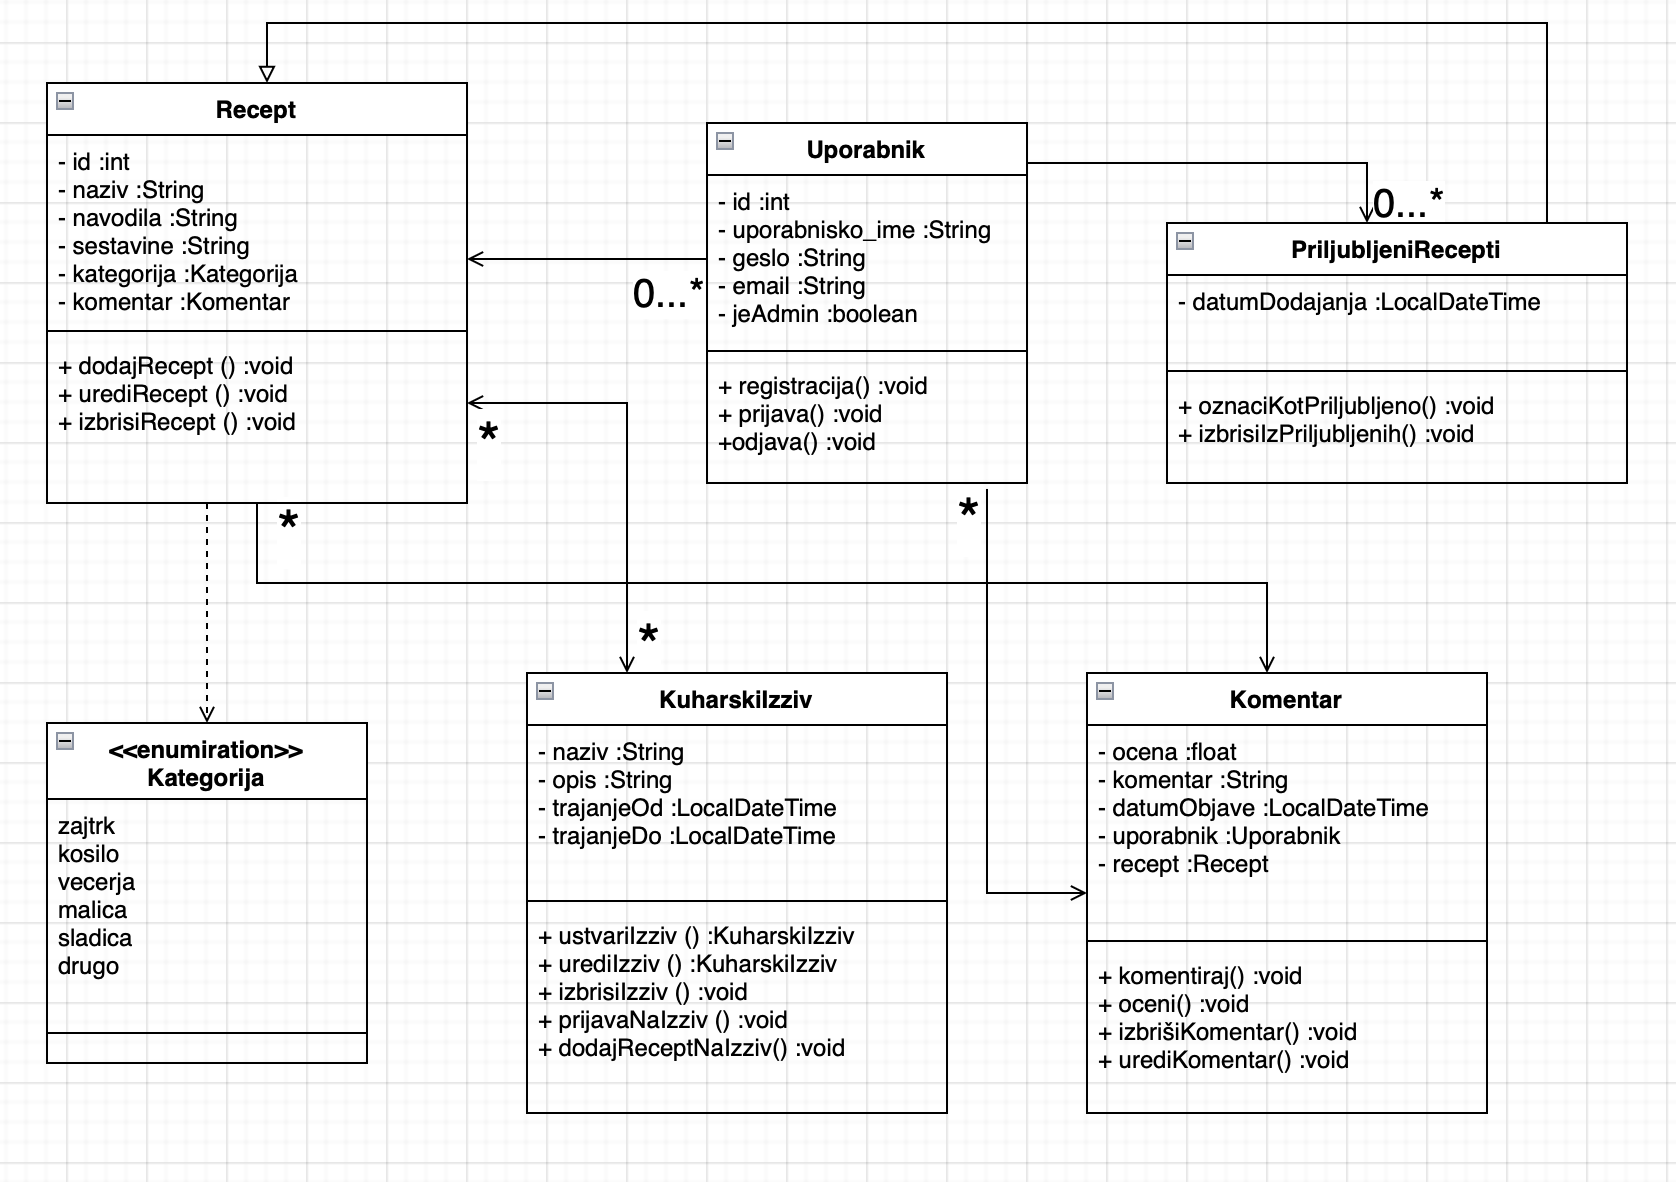
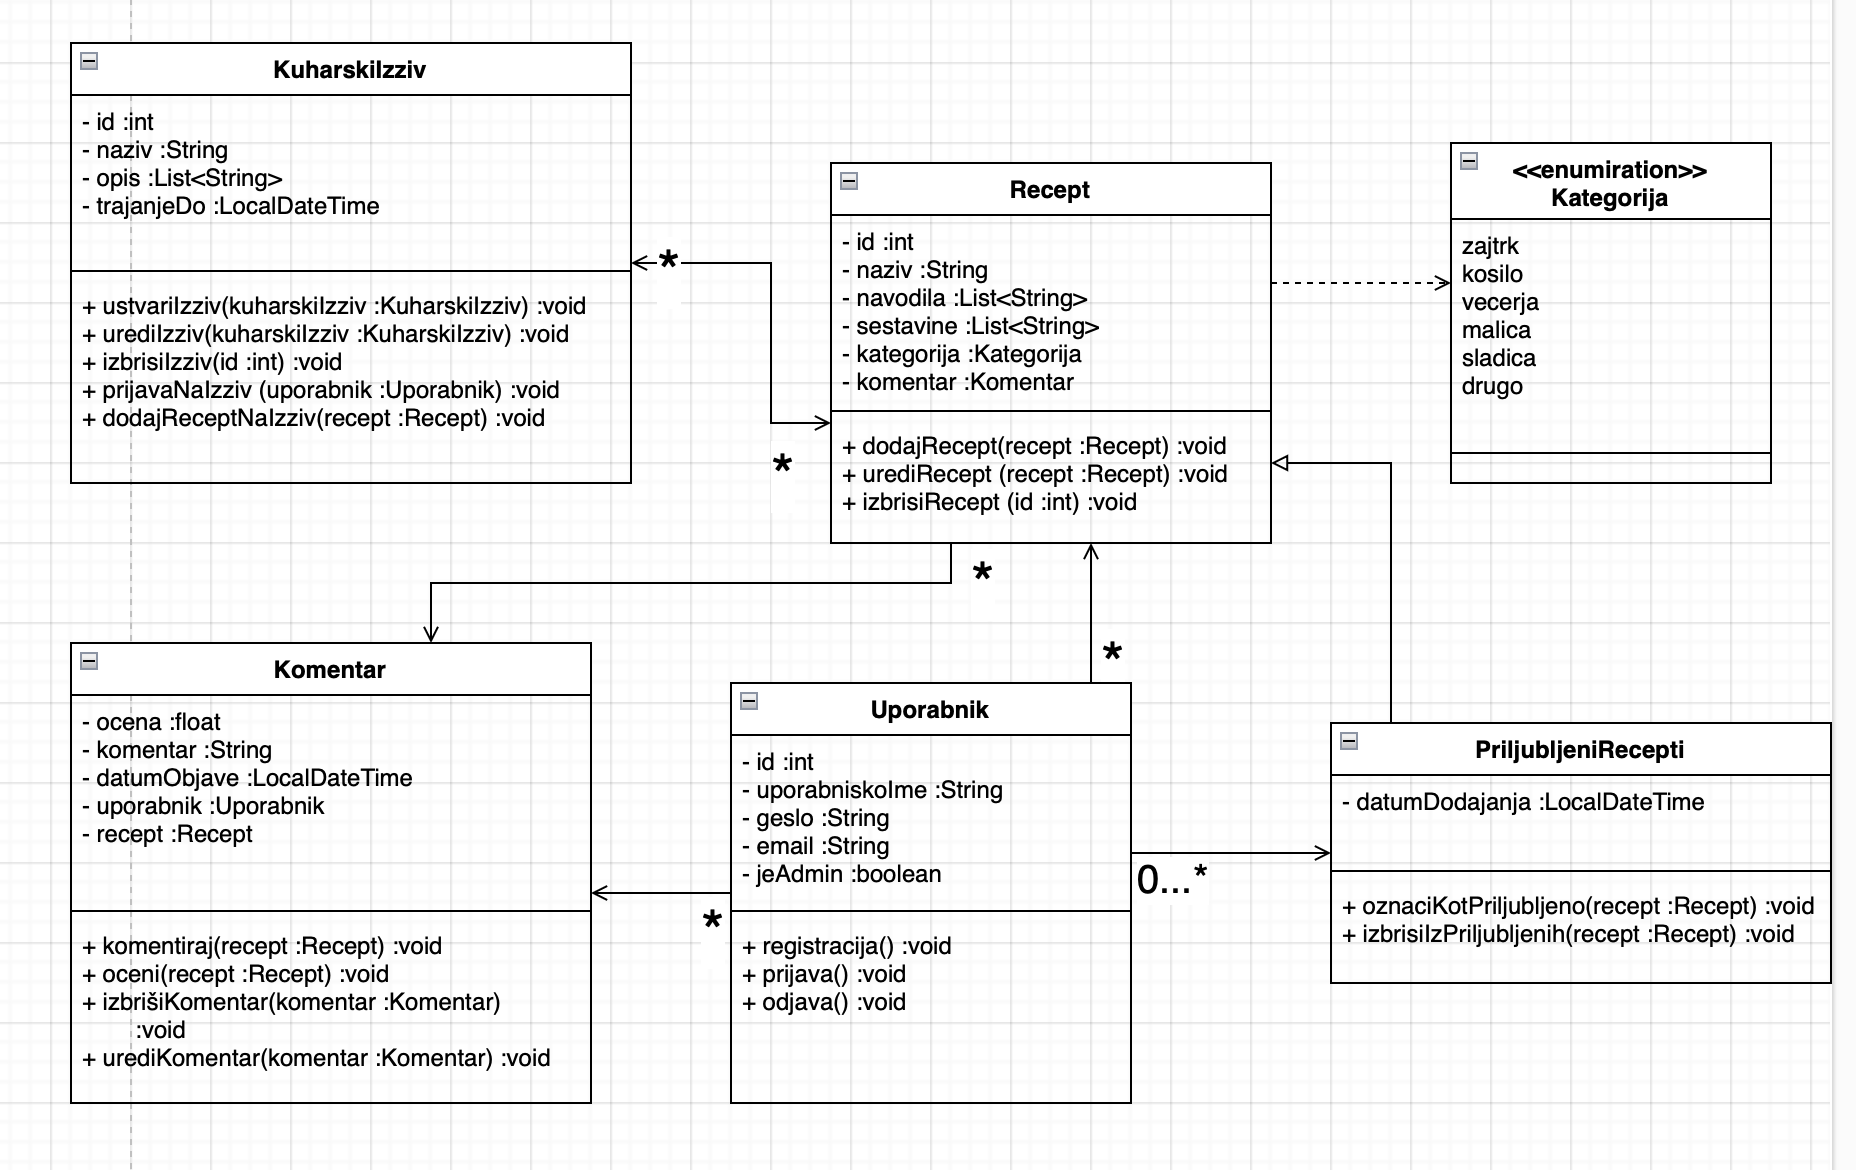
List<String> in atributi v metodah v razrednem diagramu

diff --git a/README.md b/README.md
@@ -426,17 +426,18 @@ This project is licensed under the terms of the MIT license.
 Vloga in namen:
 Osrednji razred, ki predstavlja posamezen recept v aplikaciji. Vsebuje informacije, kot so naziv recepta, sestavine, navodila, kategorija in povezani komentarji.
 Ključne metode:
-dodajRecept(): void – Dodaja nov recept v sistem.
-urediRecept(): void – Omogoča urejanje obstoječega recepta.
-izbrisiRecept(): void – Briše recept iz sistema.
+dodajRecept(recept :Recept): void – Dodaja nov recept v sistem.
+urediRecept(recept :Recept): void – Omogoča urejanje obstoječega recepta.
+izbrisiRecept(id :int): void – Briše recept iz sistema.
 
 2. PriljubljeniRecepti (deduje od Recept)
 
 Vloga in namen:
 Predstavlja razrede receptov, ki jih je uporabnik označil kot priljubljene. Podeduje osnovne atribute in metode iz razreda Recept ter doda lastnosti in funkcionalnosti za upravljanje priljubljenih receptov.
 Ključne metode:
-oznaciKotPriljubljeno(): void – Označi recept kot priljubljenega za določenega uporabnika.
-izbrisiIzPriljubljenih(): void – Odstrani recept iz priljubljenih receptov.
+oznaciKotPriljubljeno(recept :Recept): void – Označi recept kot priljubljenega za določenega uporabnika.
+izbrisiIzPriljubljenih(recept :Recept): void – Odstrani recept iz priljubljenih receptov.
+
 3. Uporabnik
 
 Vloga in namen:
@@ -451,21 +452,21 @@ odjava(): void – Odjavi uporabnika iz aplikacije.
 Vloga in namen:
 Predstavlja komentarje, ki jih uporabniki dodajo k receptom. Vsebuje oceno, besedilo komentarja, datum objave ter povezave do avtorja (uporabnika) in pripadajočega recepta.
 Ključne metode:
-komentiraj(): void – Omogoča dodajanje novega komentarja k receptu.
-oceni(): void – Omogoča ocenjevanje recepta (npr. s številčno oceno).
-izbrisiKomentar(): void – Briše obstoječ komentar.
-urediKomentar(): void – Ureja vsebino komentarja.
+komentiraj(recept :Recept): void – Omogoča dodajanje novega komentarja k receptu.
+oceni(recept :Recept): void – Omogoča ocenjevanje recepta (npr. s številčno oceno).
+izbrisiKomentar(komentar :Komentar): void – Briše obstoječ komentar.
+urediKomentar(komentar :Komentar): void – Ureja vsebino komentarja.
 
 5. KuharskiIzziv
 
 Vloga in namen:
 Predstavlja kuharske izzive, ki jih lahko uporabniki ustvarijo, se nanje prijavijo ali jim dodajo recepte. Vsak izziv ima specifične časovne omejitve in opis.
 Ključne metode:
-ustvariIzziv(): KuharskiIzziv – Ustvari nov kuharski izziv.
-urediIzziv(): KuharskiIzziv – Omogoča urejanje obstoječega izziva.
-izbrisiIzziv(): void – Briše obstoječ izziv.
-prijavaNaIzziv(): void – Prijavi uporabnika na določen kuharski izziv.
-dodajReceptNaIzziv(): void – Doda recept kot prispevek k izzivu.
+ustvariIzziv(kuharskiIzziv :KuharskiIzziv): void – Ustvari nov kuharski izziv.
+urediIzziv(kuharskiIzziv :KuharskiIzziv): void – Omogoča urejanje obstoječega izziva.
+izbrisiIzziv(id :int): void – Briše obstoječ izziv.
+prijavaNaIzziv(uporabnik :Uporabnik): void – Prijavi uporabnika na določen kuharski izziv.
+dodajReceptNaIzziv(recept :Recept): void – Doda recept kot prispevek k izzivu.
 
 6. Kategorija (enumeracija)
 
@@ -474,7 +475,7 @@ Predstavlja vnaprej določene kategorije receptov, kot so zajtrk, kosilo, večer
 Ključne metode:
 Ta razred kot enumeracija nima dinamičnih metod, saj je preprosta taksonomija receptov.
 
-Ključne funkcionalnosti in vloga metod:
+### Ključne funkcionalnosti in vloga metod:
 Recept: Osnova za vse funkcionalnosti (dodajanje, urejanje, brisanje receptov).
 PriljubljeniRecepti: Personalizacija za uporabnike (upravljanje priljubljenih receptov).
 Uporabnik: Upravljanje uporabnikov (registracija, prijava, odjava).
